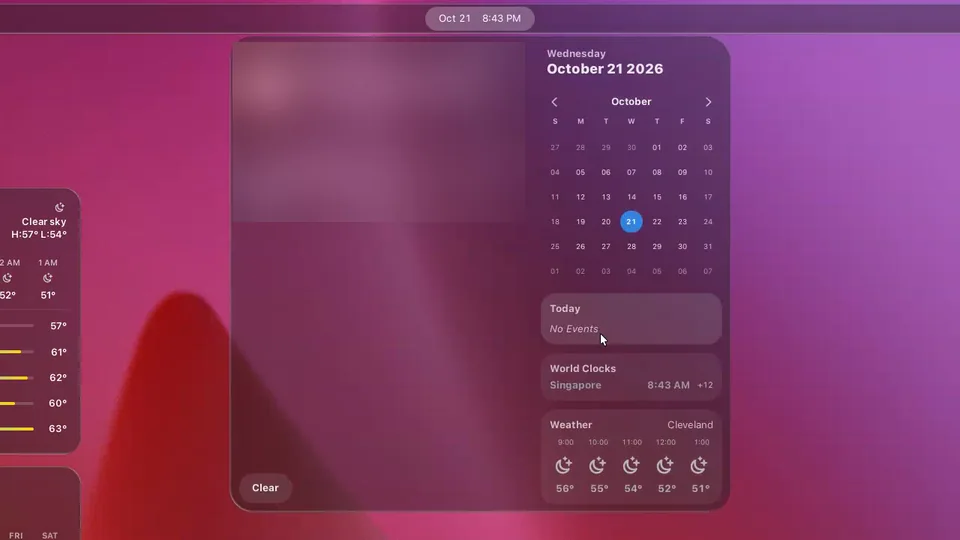
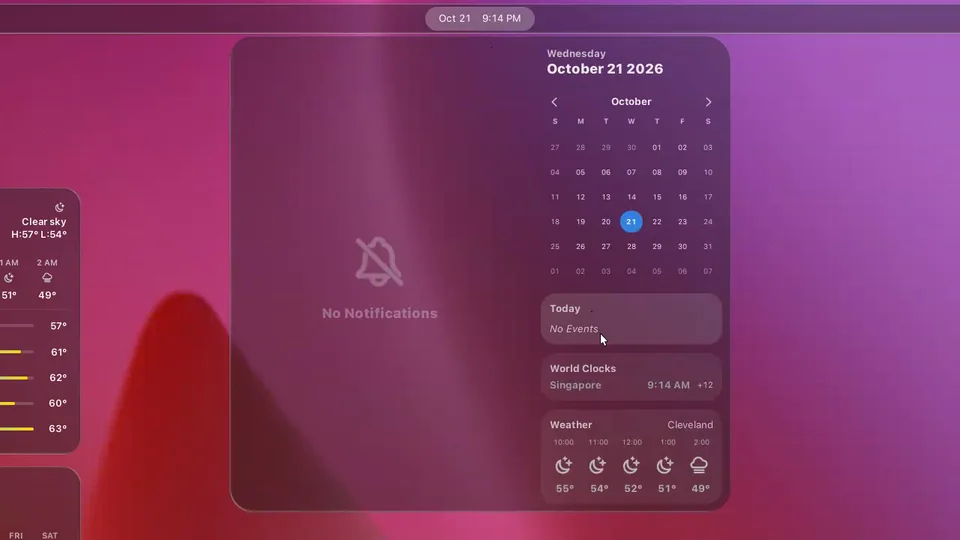
README live glass and spacing clips reshot with the notifications cleared, no blur box

diff --git a/tools/showcase/feature_clips.py b/tools/showcase/feature_clips.py
@@ -11,21 +11,11 @@ from PIL import Image
 V = Path.home() / 'Videos/liquid-glass-showcase'
 W, H, FPS = 960, 540, 20
 
-# box blur over private notifications: (x, y, w, h) in source pixels, [t0, t1] seconds
-NOTIF = (950, 56, 390, 240)
-
-
-def blur(box, t0, t1):
-    x, y, w, h = box
-    return (f"split[a][b];[b]crop={w}:{h}:{x}:{y},boxblur=24:3[bl];"
-            f"[a][bl]overlay={x}:{y}:enable='between(t,{t0},{t1})'")
-
-
 # name: list of (source, start, duration, filter before scale), still time (s into the result)
 CLIPS = {
-    'live-blur': ([(V / 'features1/live-blur.mp4', 0.3, 10.4, blur(NOTIF, 3.35, 7.25) + ',crop=1920:1080:0:0')], 5.8),
+    'live-blur': ([(V / 'features5/live-blur.mp4', 0.3, 10.4, 'crop=1920:1080:0:0')], 5.8),
     'motion': ([(V / 'features1/quick-settings.mp4', 0.4, 6.6, 'crop=1280:720:1280:0')], 3.6),
-    'spacing': ([(V / 'features1/calendar.mp4', 0.9, 4.4, blur(NOTIF, 0.75, 3.7) + ',crop=1280:720:640:0')], 2.6),
+    'spacing': ([(V / 'features5/calendar.mp4', 0.9, 4.4, 'crop=1280:720:640:0')], 2.6),
     'icons': ([(V / 'features3/icons.mp4', 0.6, 6.6, 'crop=960:540:1600:0')], 3.2),
     'albums': ([(V / f'features4/song-{i}.mp4', 0.6, 4.6, 'crop=1600:900:0:40') for i in (1, 2, 3, 4)], 1.5),
     'lock': ([(V / 'features-lock/lock-video.mp4', 0.8, 5.6, 'crop=2240:1260:60:20')], 3.5),
